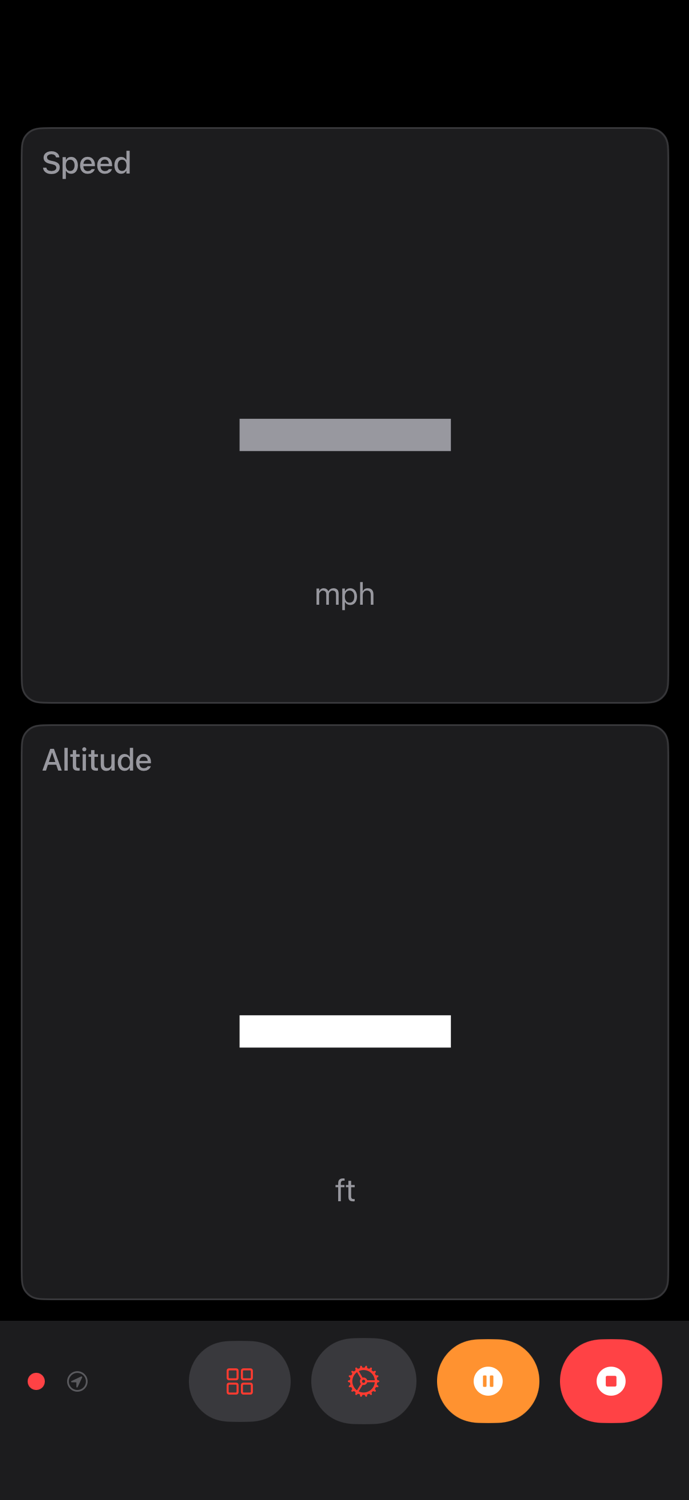
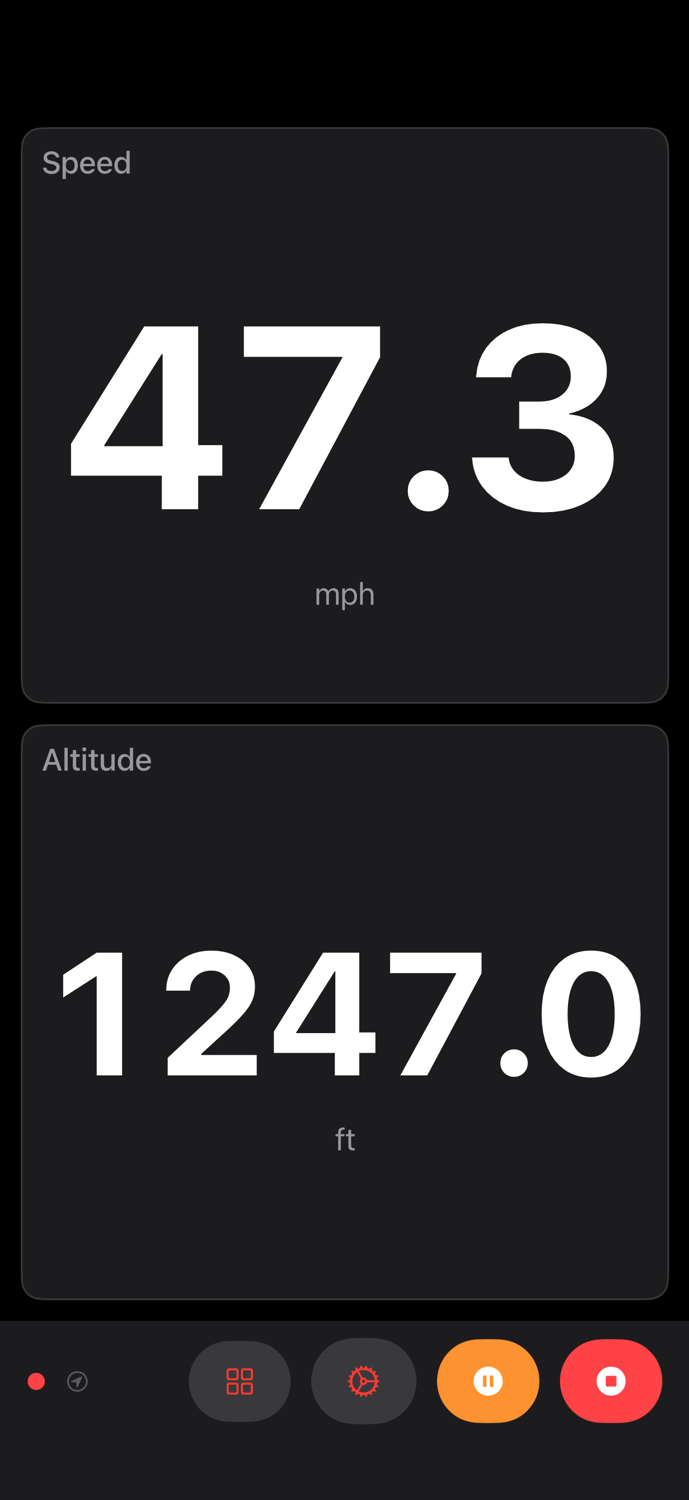
Replace blank screenshots with realistic demo data
All five dashboard screenshots now show a fictional mountain-road drive
(47.3 mph, 1247 ft altitude, 12.4 mi, 2:34:18 elapsed, 3.2% grade, 247°
heading) with Enhanced Information visualizations where applicable. Also
adds the landscape screenshot to dashboard-customization.md.

diff --git a/docs/getting-started/dashboard-customization.md b/docs/getting-started/dashboard-customization.md
@@ -104,6 +104,8 @@ The dashboard grid adapts to the iPhone's orientation:
 
 The Layout Canvas reflects the current orientation. Rotate your iPhone to edit the landscape layout separately.
 
+![Six tiles in landscape orientation — two columns of three rows — with recording controls on the right edge](../../assets/screenshots/dashboard-landscape.png)
+
 ### Tile sizes
 
 Tiles have seven sizes. Each size spans a different number of grid cells:
